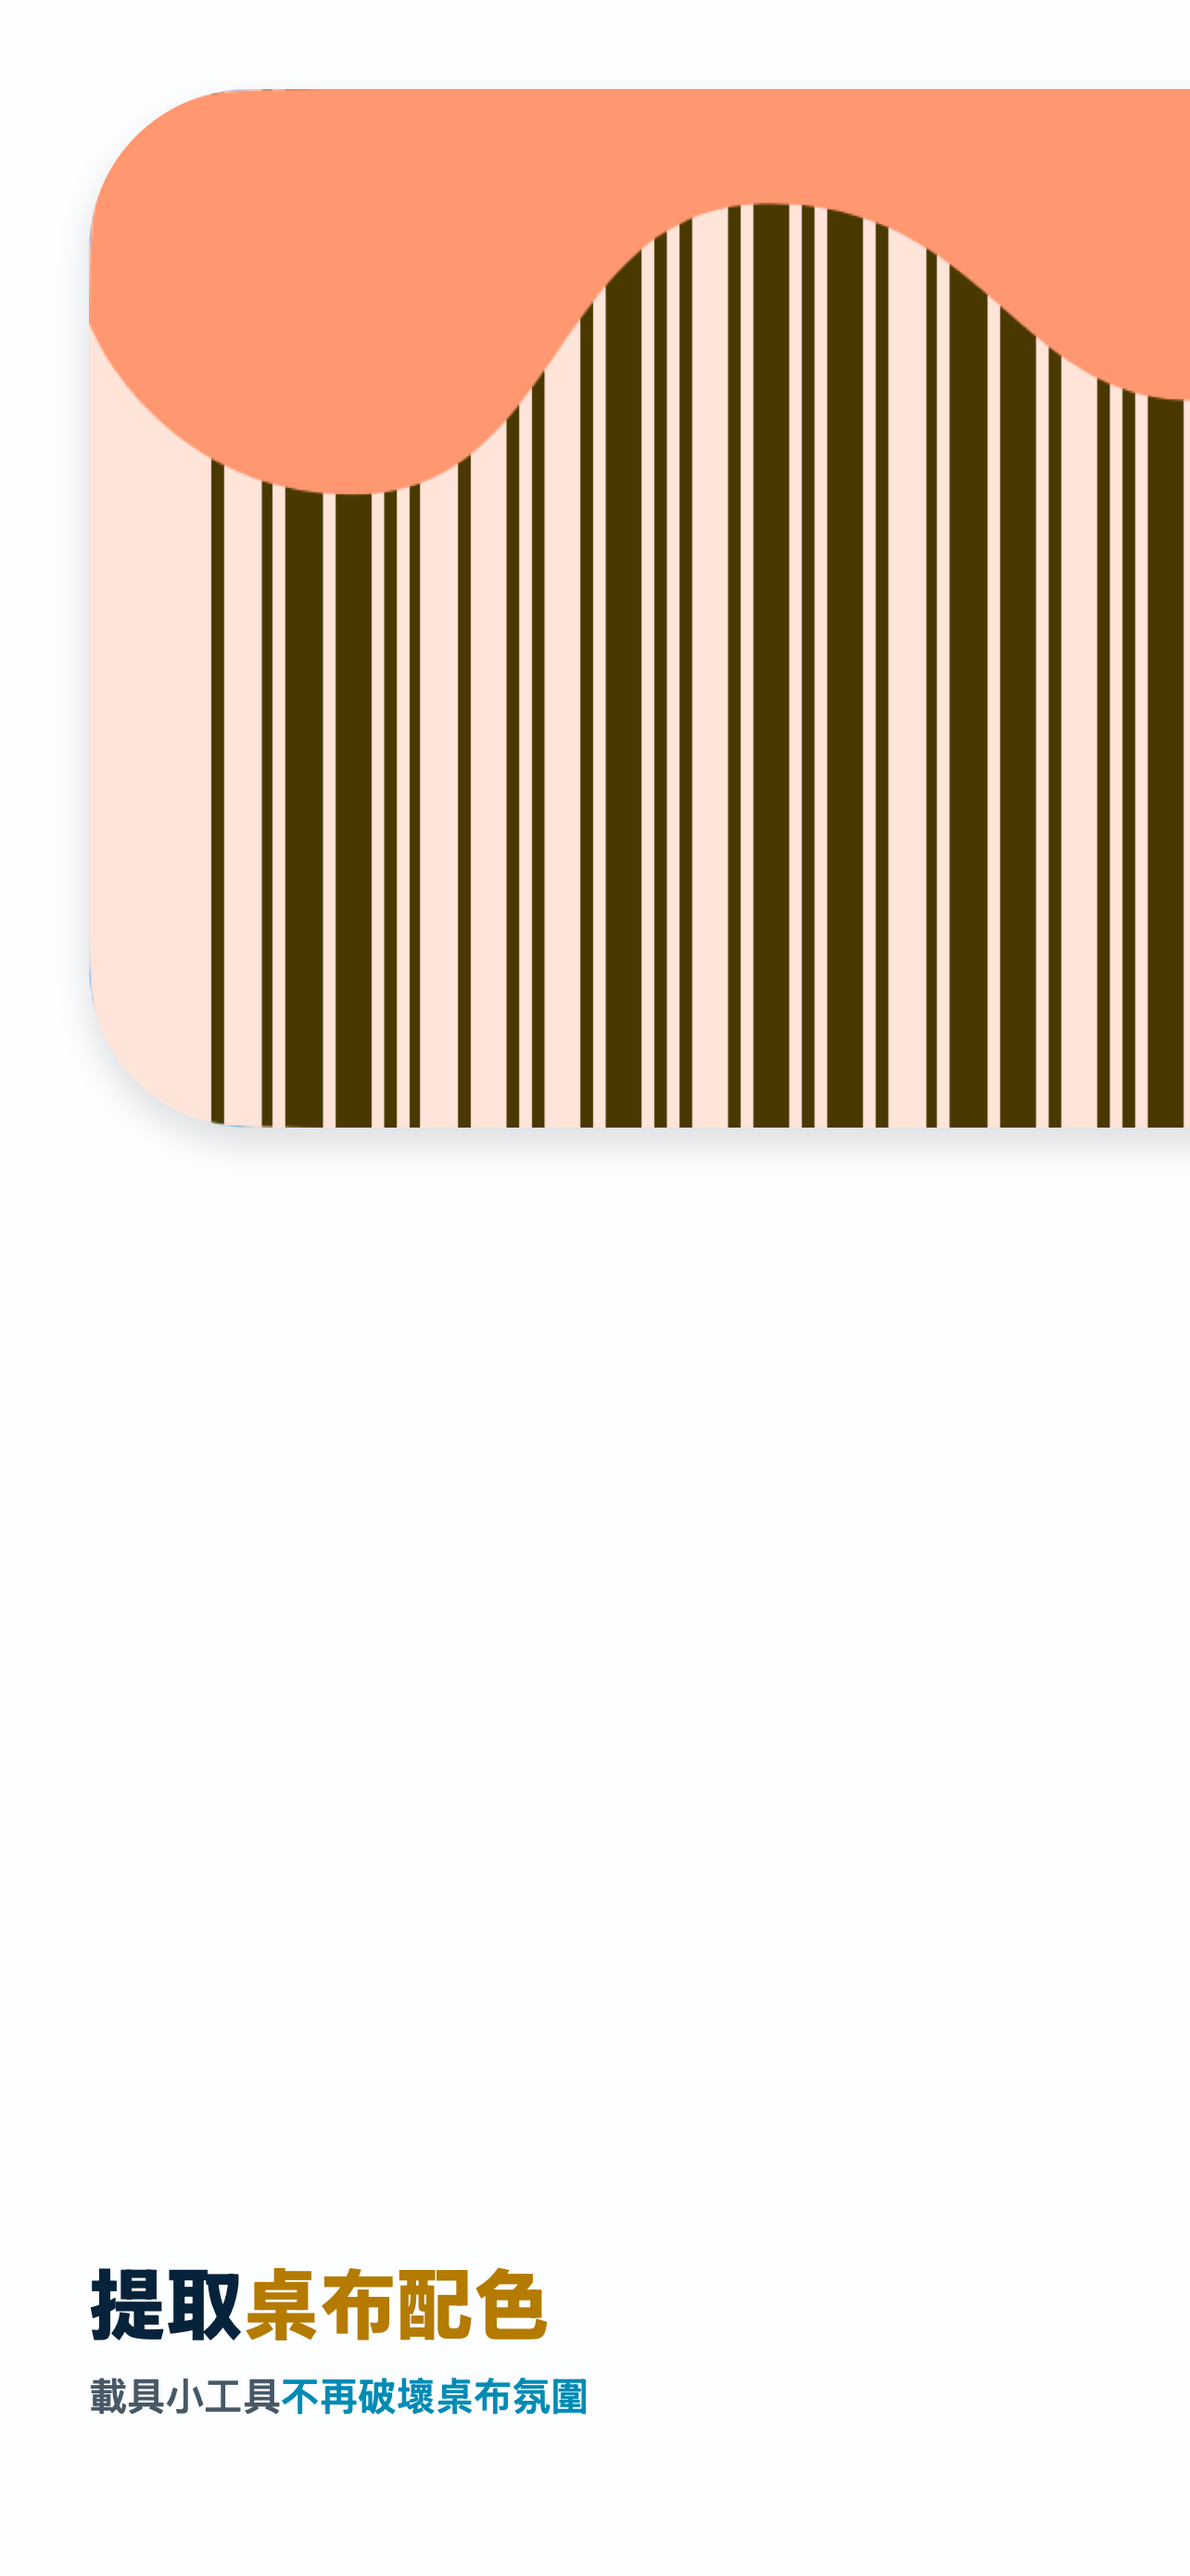
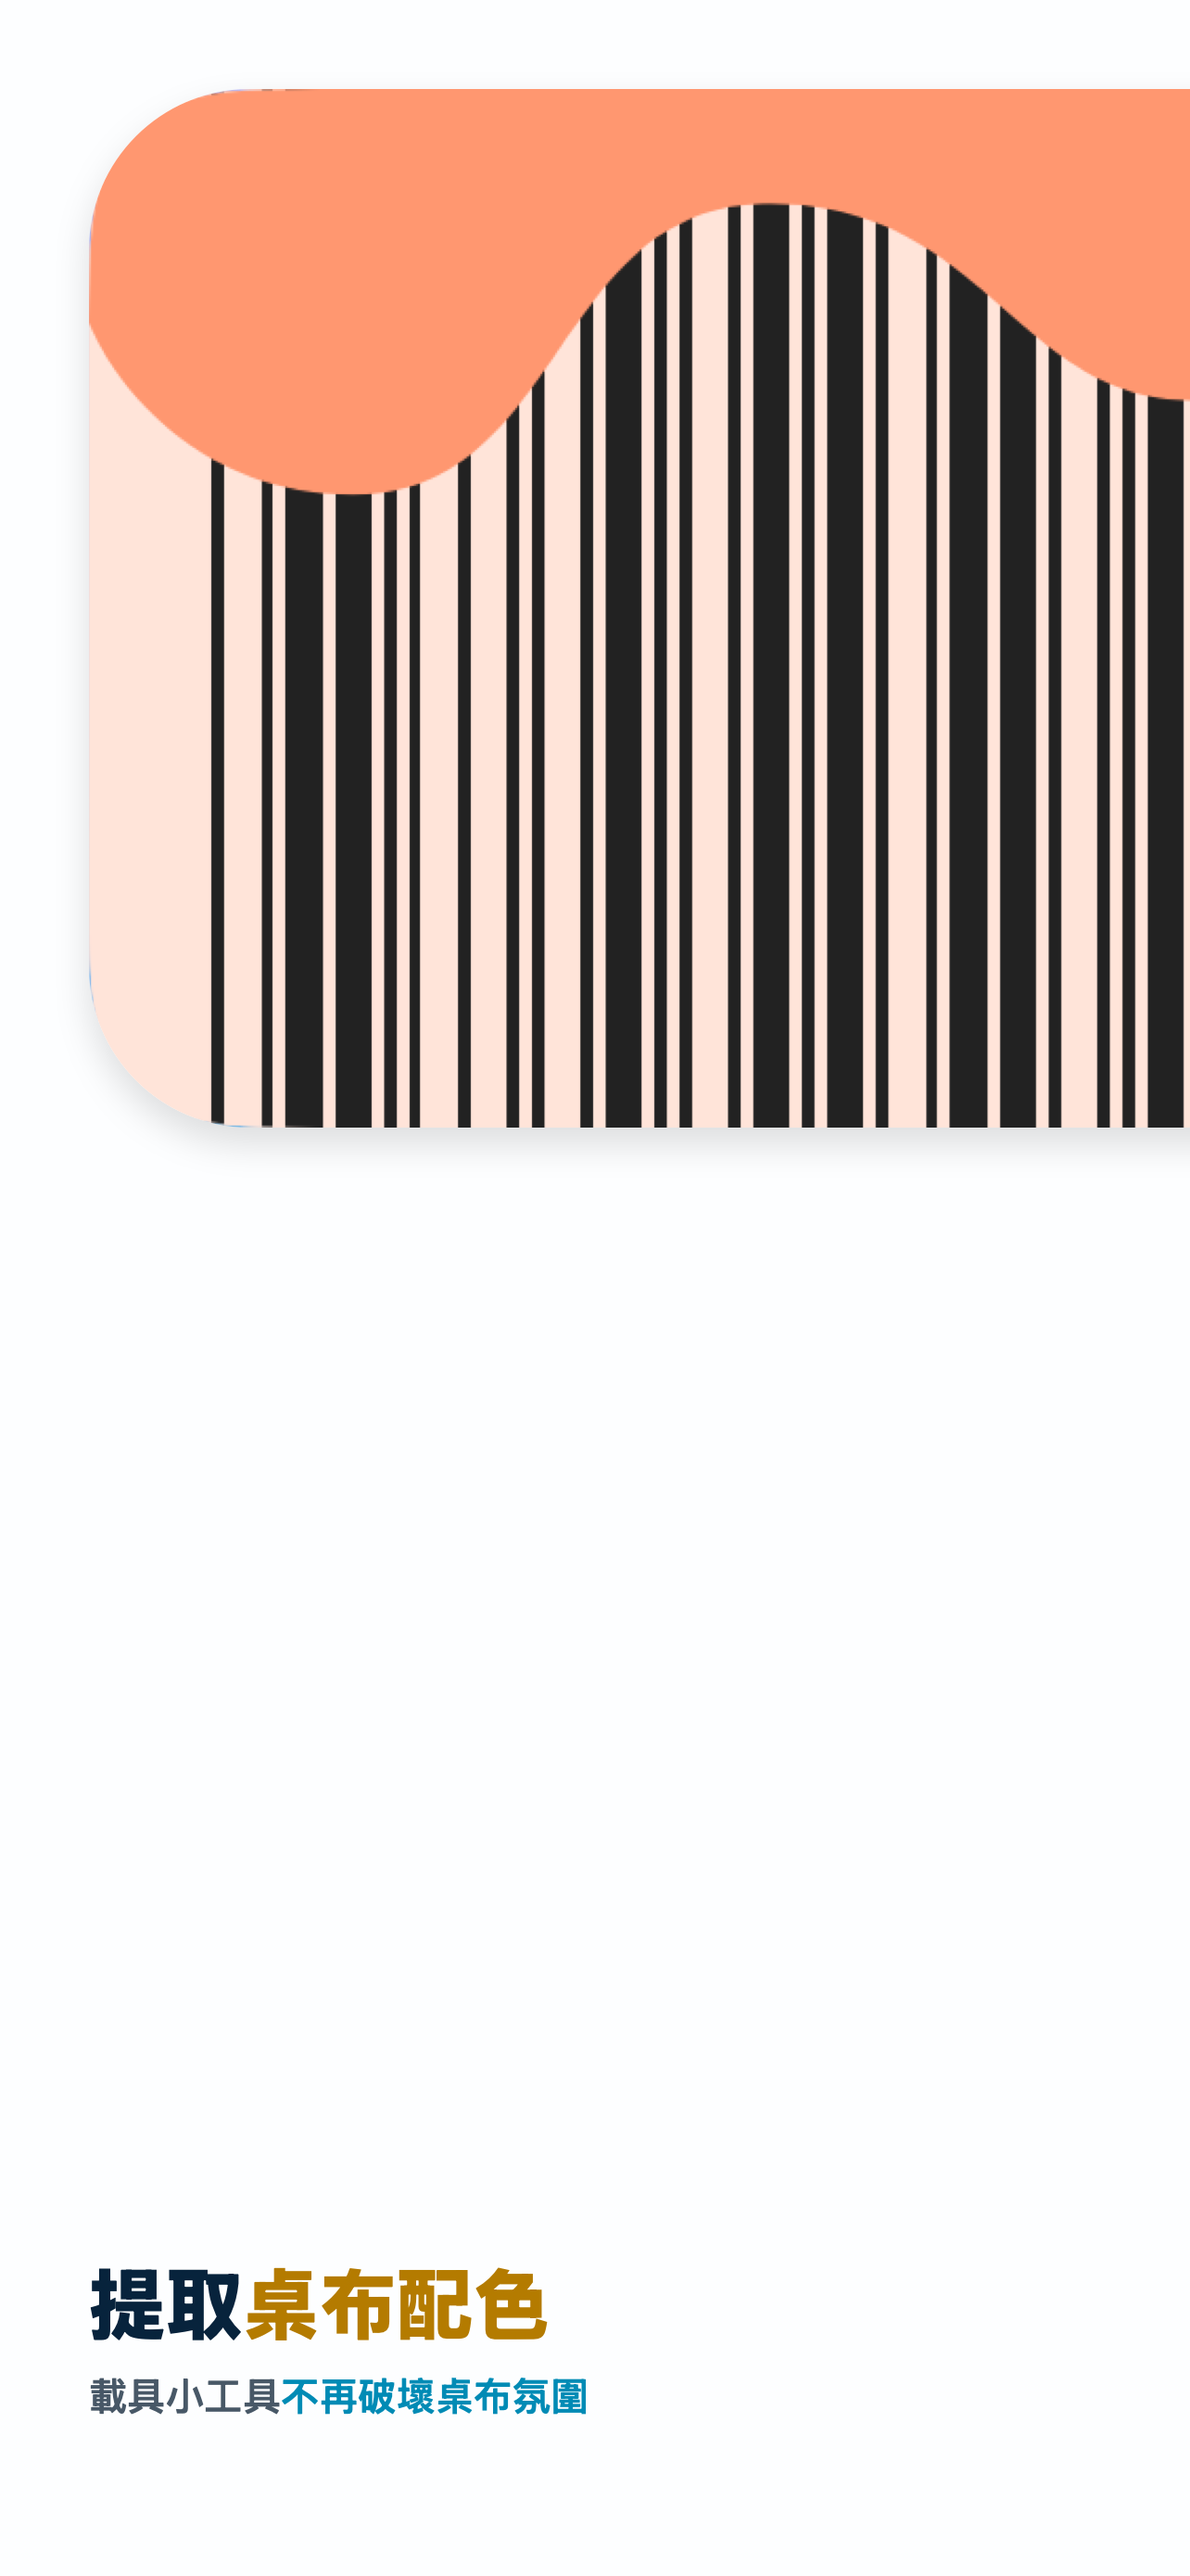
feat: refine screenshot contrast and grouping

Changed region(s): [[0.2181, 0.0619, 0.7477, 0.4644], [0.7788, 0.0929, 0.9969, 0.4644], [0.1558, 0.1857, 0.1869, 0.4334]]

diff --git a/scripts/ios-compose-app-store-screenshots.swift b/scripts/ios-compose-app-store-screenshots.swift
@@ -173,8 +173,8 @@ private struct Composer {
             (
                 title: "選擇額外裝飾",
                 subtitle: "別擔心，貓貓會保留安全可掃範圍",
-                titleTop: CGFloat(1_260),
-                subtitleTop: CGFloat(1_380),
+                titleTop: CGFloat(1_320),
+                subtitleTop: CGFloat(1_440),
                 titleAccents: [("額外裝飾", Artwork.logoYellowText)],
                 subtitleAccents: [("安全可掃", Artwork.logoBlueText)]
             ),

diff --git a/apps/ios/Sources/Shared/BarcodePalette.swift b/apps/ios/Sources/Shared/BarcodePalette.swift
@@ -97,7 +97,7 @@ struct BarcodePalette: Codable, Equatable, Identifiable, Sendable {
 
     static let showcaseLogoOrange = BarcodePalette(
         name: "標誌橘",
-        barColor: RGBAColor(hex: 0x493800),
+        barColor: RGBAColor(hex: 0x222222),
         backgroundColor: RGBAColor(hex: 0xFFE4D9)
     )
 

diff --git a/design-qa.md b/design-qa.md
@@ -1,18 +1,18 @@
 # App Store Screenshot Design QA
 
-- Source visual truth: `/tmp/colorinvo-prev-yellow-panorama.png`, revised by the latest user brief to keep the orange paint area and peach background while changing only its near-black barcode bars to dark yellow.
+- Source visual truth: `/tmp/colorinvo-mustard-panorama.png`, revised by the latest user brief to set the orange widget bars to `#222222` and move the decoration copy group closer to the cat widget.
 - Implementation screenshots: `/Users/hsi/Projects/Apps/Mobile/ColorInvo/assets/screenshots/colorinvo-iphone-6-5-01-wallpaper-palette.png`, `/Users/hsi/Projects/Apps/Mobile/ColorInvo/assets/screenshots/colorinvo-iphone-6-5-02-decorations.png`, `/Users/hsi/Projects/Apps/Mobile/ColorInvo/assets/screenshots/colorinvo-iphone-6-5-03-scanner-widget.png`
 - Viewport: three adjacent 1284 × 2778 App Store screenshots; combined panorama 3852 × 2778.
-- State: Traditional Chinese showcase data, light appearance, orange paint widget with dark-yellow bars and blue cat widget.
-- Full-view comparison evidence: `/tmp/colorinvo-bars-correction-comparison.png`.
-- Focused comparison evidence: `/tmp/colorinvo-bars-correction-contact.png` verifies the three isolated-card crops, copy emphasis, and the center-card composition.
+- State: Traditional Chinese showcase data, light appearance, orange paint widget with `#222222` bars and blue cat widget.
+- Full-view comparison evidence: `/tmp/colorinvo-black-bars-comparison.png`.
+- Focused comparison evidence: `/tmp/colorinvo-black-bars-contact.png` verifies the three isolated-card crops, copy emphasis, and the tighter cat/copy grouping.
 
 ## Findings
 
 - No actionable P0, P1, or P2 differences remain.
 - Fonts and typography: headlines remain 88 px black and supporting text remains 44 px semibold. Color emphasis is limited to 桌布配色、不再破壞桌布氛圍、額外裝飾、安全可掃、商用反射率規範、好看 and 好掃. All other words use the established navy hierarchy, and all copy remains on one line without truncation.
-- Spacing and layout rhythm: the orange paint widget begins 96 px from the panorama's top-left and the blue cat widget ends 96 px from the bottom-right. Both retain their native 329:155 ratio. Their frames are centered on the first and second panel seams respectively. Card 1 copy sits at the bottom, card 2 copy occupies the space between widgets, and card 3 copy sits at the top.
-- Colors and visual tokens: the paint area returns to app-icon orange `#FF9770`, its scanner-safe background returns to peach `#FFE4D9`, and only its barcode bars use dark mustard `#493800`. The blue widget retains its tint derived from app-icon blue `#70D6FF`. Under the app's red-light reflectance model, the blue pair has background/bar reflectance 0.749/0.000 and symbol contrast 0.749; the orange widget pair has 1.000/0.286 and symbol contrast 0.714. Both exceed the 0.70 commercial guidance threshold.
+- Spacing and layout rhythm: the orange paint widget begins 96 px from the panorama's top-left and the blue cat widget ends 96 px from the bottom-right. Both retain their native 329:155 ratio. Their frames are centered on the first and second panel seams respectively. The card 2 copy group moved 60 px downward, leaving 104 px below the orange widget and 50 px above the cat widget, so Gestalt proximity associates it with the cat. Card 1 copy remains at the bottom and card 3 copy remains at the top.
+- Colors and visual tokens: the paint area remains app-icon orange `#FF9770`, its scanner-safe background remains peach `#FFE4D9`, and its barcode bars are now neutral black `#222222`. The blue widget retains its tint derived from app-icon blue `#70D6FF`. Under the app's red-light reflectance model, the blue pair has background/bar reflectance 0.749/0.000 and symbol contrast 0.749; the orange widget pair has 1.000/0.133 and symbol contrast 0.867. Both exceed the 0.70 commercial guidance threshold.
 - Image quality and asset fidelity: both elements are real widget captures, not reconstructed illustrations. Their native masks, barcode geometry, cat damage treatment, paint shape, and shadows remain sharp at 1284 × 2778 output.
 - Copy and content: card 2 now reads 選擇額外裝飾. The requested benefit phrases are highlighted exactly, and the three messages retain the bottom / middle / top sequence.
 
@@ -22,7 +22,8 @@
 2. The revised implementation swaps the widgets, introduces brand-derived scan-safe orange and blue states, centers each widget on its seam, and redistributes the copy to use the negative space.
 3. The latest refinement replaced the orange paint state with dark yellow, changed 裝飾 to 額外裝飾, and removed emphasis from 小工具 and 貓貓 in favor of the requested benefit phrases.
 4. The correction restored the orange paint and peach background, limited dark yellow to the barcode bars, and added blue emphasis to 不再破壞桌布氛圍.
-5. The full panorama and isolated-card comparison found no remaining P0, P1, or P2 issues.
+5. The final color refinement changed those bars to `#222222` and moved the card 2 copy group 60 px closer to the cat widget.
+6. The full panorama and isolated-card comparison found no remaining P0, P1, or P2 issues.
 
 ## Open Questions
 
@@ -33,9 +34,10 @@
 - [x] Swap paint and cat widget positions.
 - [x] Center both widget frames on their respective seams.
 - [x] Preserve the native widget aspect ratio and shared 96 px outer inset.
-- [x] Keep the orange paint and peach background while changing only its barcode bars to scan-safe dark yellow.
+- [x] Keep the orange paint and peach background while changing only its barcode bars to scan-safe `#222222`.
 - [x] Place card copy at the bottom, between the widgets, and at the top.
 - [x] Restrict brand-color emphasis to the seven requested benefit phrases.
+- [x] Group the decoration copy more closely with the cat widget through vertical proximity.
 - [x] Verify all three 1284 × 2778 outputs and standalone crops.
 
 ## Follow-up Polish
